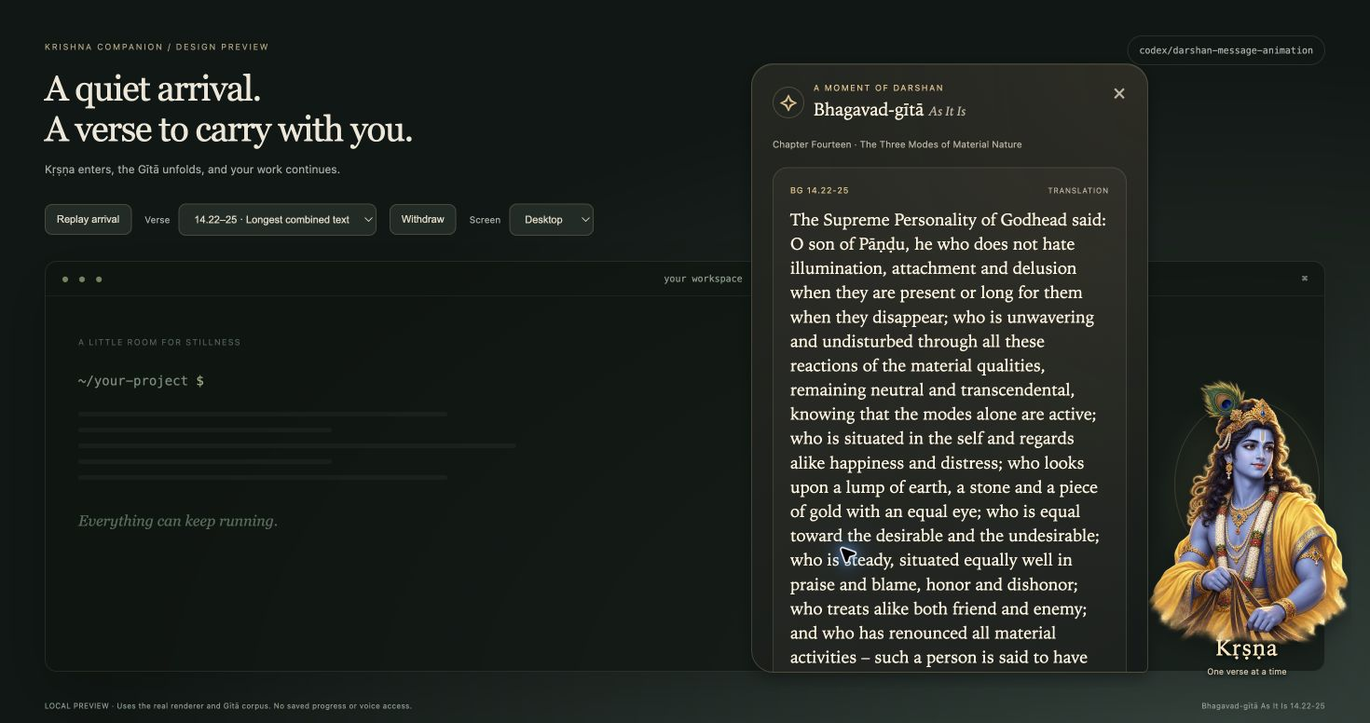
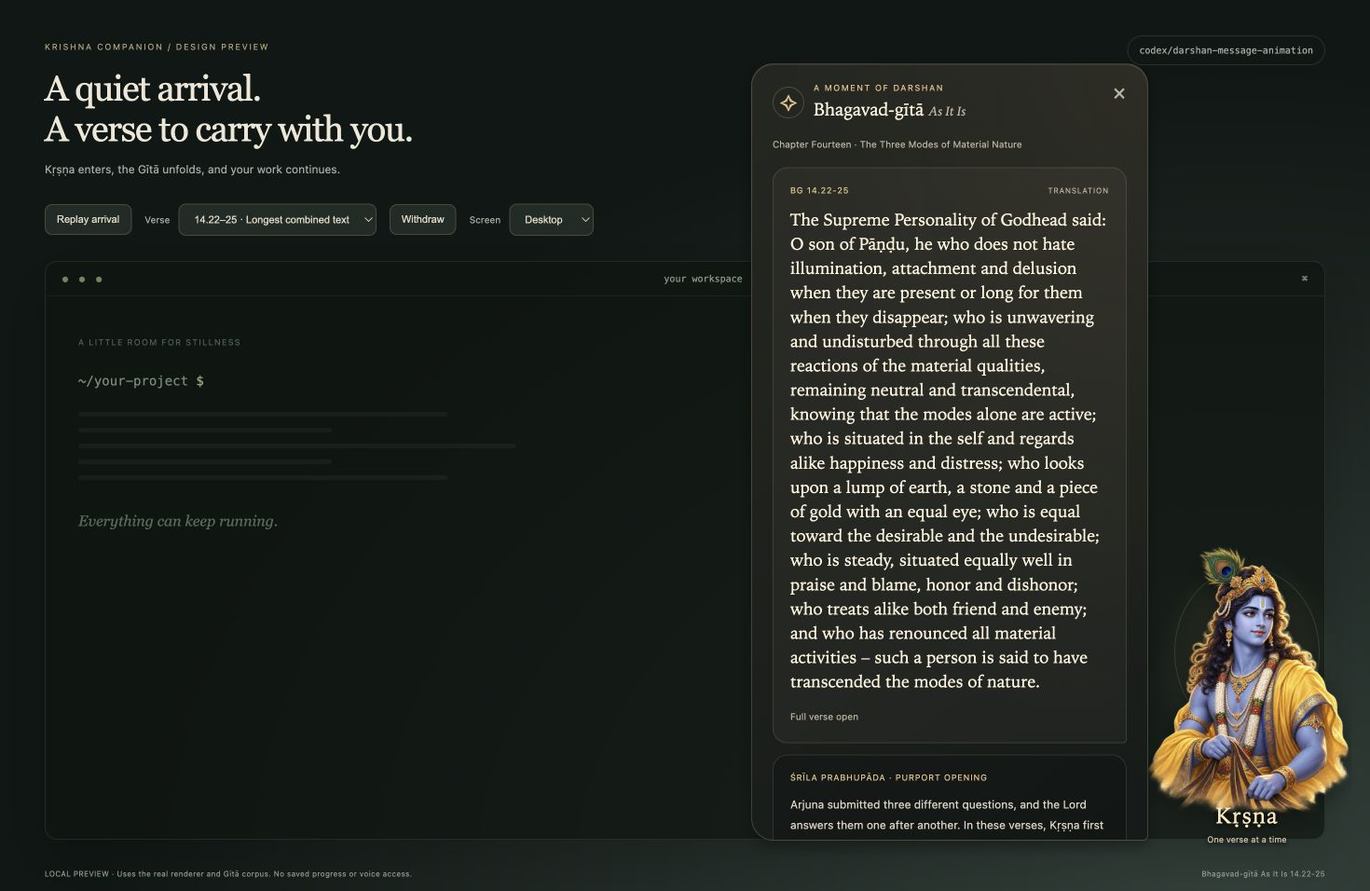
Add single-image darshan micro-motion

diff --git a/src/styles.css b/src/styles.css
@@ -62,6 +62,7 @@ body:not(.expanded) .translation { display: -webkit-box; -webkit-line-clamp: 3; 
 .presence-caption small { display: block; margin-top: 4px; color: #d3c3a7; font-size: 9px; }
 .threshold { position: absolute; right: 0; bottom: 0; width: 220px; height: 2px; background: linear-gradient(90deg, transparent, #edcb8caa, transparent); opacity: 0; transform: scaleX(.2); }
 body[data-phase="arriving"] .presence { animation: arrive .95s var(--ease) both; }
+body[data-phase="arriving"] .figure img, body[data-phase="present"] .figure img { animation: breathe 4s ease-in-out infinite; transform-origin: 50% 78%; }
 body[data-phase="arriving"] .threshold { animation: threshold 1.1s ease both; }
 body[data-phase="arriving"] .card { opacity: 1; transform: none; transition-delay: .5s; pointer-events: auto; }
 body[data-phase="arriving"] .typing { visibility: visible; }
@@ -80,6 +81,7 @@ body[data-phase="withdrawing"] .card { transition-duration: .25s; opacity: 0; tr
 body[data-phase="absent"] .figure, body[data-phase="withdrawing"] .figure { pointer-events: none; }
 @keyframes arrive { 0% { opacity: 0; transform: translateX(240px); } 18% { opacity: 1; } 100% { opacity: 1; transform: none; } }
 @keyframes withdraw { 0%, 18% { opacity: 1; transform: none; } 100% { opacity: 0; transform: translateX(240px); } }
+@keyframes breathe { 0%, 100% { transform: scale(1); } 50% { transform: scale(1.012); } }
 @keyframes threshold { 20% { opacity: .8; transform: scaleX(1); } 100% { opacity: 0; transform: scaleX(1); } }
 @keyframes message-arrive { from { opacity: 0; transform: translateY(8px); } to { opacity: 1; transform: none; } }
 @keyframes dot { 50% { opacity: .3; transform: translateY(-3px); } }
@@ -93,4 +95,5 @@ body[data-phase="absent"] .figure, body[data-phase="withdrawing"] .figure { poin
 }
 @media (prefers-reduced-motion: reduce) {
   *, *::before, *::after { animation-duration: .01ms !important; animation-delay: 0s !important; animation-iteration-count: 1 !important; transition-duration: .01ms !important; transition-delay: 0s !important; }
+  body[data-phase="arriving"] .figure img, body[data-phase="present"] .figure img { animation: none; transform: scale(1); }
 }

diff --git a/test/micro-motion.test.js b/test/micro-motion.test.js
@@ -1,0 +1,30 @@
+const test = require("node:test");
+const assert = require("node:assert/strict");
+const fs = require("node:fs");
+const path = require("node:path");
+const { ARRIVAL_MS, WITHDRAWAL_MS } = require("../src/darshan");
+
+const index = fs.readFileSync(path.join(__dirname, "../src/index.html"), "utf8");
+const styles = fs.readFileSync(path.join(__dirname, "../src/styles.css"), "utf8");
+
+test("the shipped figure is one original image with no articulated runtime", () => {
+  assert.equal((index.match(/<img\b/g) || []).length, 1);
+  assert.match(index, /<img src="\.\.\/assets\/krishna\.png"/);
+  assert.doesNotMatch(index, /<canvas\b|character-motion|character\.js|character-style/);
+});
+
+test("arrival, breathing and withdrawal use bounded single-image transforms", () => {
+  assert.equal(ARRIVAL_MS, 1_100);
+  assert.equal(WITHDRAWAL_MS, 900);
+  assert.match(styles, /\[data-phase="arriving"\] \.presence \{ animation: arrive \.95s/);
+  assert.match(styles, /\[data-phase="withdrawing"\] \.presence \{ animation: withdraw \.85s/);
+  assert.match(styles, /animation: breathe 4s ease-in-out infinite/);
+  assert.match(styles, /@keyframes breathe \{ 0%, 100% \{ transform: scale\(1\); \} 50% \{ transform: scale\(1\.012\); \} \}/);
+});
+
+test("absence and reduced motion have no breathing loop", () => {
+  const breathingRule = styles.match(/body\[data-phase="arriving"\][^\n]+animation: breathe[^\n]+/)[0];
+  assert.doesNotMatch(breathingRule, /data-phase="absent"|data-phase="withdrawing"/);
+  assert.match(styles, /prefers-reduced-motion: reduce[\s\S]+animation: none; transform: scale\(1\);/);
+  assert.doesNotMatch(styles, /requestAnimationFrame|setInterval/);
+});

diff --git a/docs/DARSHAN-HANDOFF.md b/docs/DARSHAN-HANDOFF.md
@@ -1,165 +1,89 @@
-# Darshan animation redesign — Fable handoff
+# Darshan glide and micro-motion — Fable handoff
 
-Branch: `codex/darshan-message-animation`. Local worktree: `../krishna-companion-darshan`.
-Requested by Deep on 2026-09-08 while Fable was unavailable. Fable remains the
-orchestrator; this document is a prepared handoff, not a sent notification.
-No issue, pull request, deployment, installation, or merge was requested or made.
+Branch: `codex/darshan-message-animation`. Owner decision recorded 2026-09-09.
+This branch is an M1 UI slice, not a claim that every M1 native acceptance check
+has passed. It is based on the `fdae25b` darshan flow over merged B2 `8731b8b`.
 
-The starting checkout was B2 (`38e401b`). B2 was subsequently squash-merged into
-`main` as `8731b8b`; those two trees are identical. The redesign is rebased onto
-that merged baseline so its review diff contains only this work.
+## Owner decision: articulated rig parked
 
-## Experience
+The AI-generated cut-out puppet did not produce a natural gait or dependable
+expressions. Rotating painted parts distorted anatomy, clothing, hands, and the
+face, and there was no animator-authored keyframed gait. M1 therefore ships only
+the original `assets/krishna.png` artwork as one image layer.
 
-Latest revision, 2026-09-09: Deep rejected the previous cutout motion as distorted.
-The description and screenshots below are historical, not visual approval.
-The correction uses continuous feathered limb surfaces, restrained angles,
-0.8 s pose transitions and a front-facing head. Removed the body-flattening turn,
-forearm swaps and whole-head blink swaps. Frame inspection and 0.25× playback
-are now available in the local preview. See `CHARACTER-MOVEMENT.md` for current
-behavior and remaining acceptance. **Not release-ready:** natural side turns
-remain incomplete because generated frames changed crown orientation/identity.
-Only the front-facing frame is used. No merge or release is authorized.
+The rig history remains available under `assets/candidates/rig/` and
+`experiments/articulated-rig/`. Its code, tests, model notes, prompts, generated
+atlases, and screenshots are reference material for a future human animator.
+Neither directory is included in the npm package or active test suite.
 
-Hand/face follow-up: corrected swapped relaxed lower-arm assignments, kept wrists
-and fingers rigid beyond elbow bends, and added local smile/blink patches in all
-three styles without swapping the base head. Desktop preview includes enlarged
-live face/hand details. See `CHARACTER-EXPRESSIONS.md`; UI5 still awaits Deep's
-visual acceptance. Side turns remain incomplete.
+## Shipped experience
 
-Latest test run: 116 tests, 115 passed, 0 failed, 1 optional helper skipped.
-New runtime tests exercise loop cancellation and positive scaling; geometry tests
-sample every 8 ms and enforce angle/continuity bounds. These are regression
-checks, not a claim that the movement has received visual or devotional approval.
-
-Deep superseded the original glide-only design on 2026-09-08/09. Kṛṣṇa now uses
-a full-body painted skeletal rig: articulated hips/knees, shoulders/elbows,
-head tilt, blink and cloth movement. Arrival takes 3.2 s before the verse appears.
-Finite teaching and explanation gestures settle into restrained breathing.
-Painterly, realistic and pixel-art atlases share the same choreography. The
-painterly blue/gold palette follows Deep's supplied visual reference. Full-length
-dhoti covers knees and calves; a shawl and overlapping fuller arms hide joins.
-See `CHARACTER-MOVEMENT.md` for the movement vocabulary and event combinations.
-
-The first message previews at most three lines with an explicit “Read full verse
-& purport” action. Tap the translation or press Enter after engaging the card to
-show the complete translation and a separately attributed purport message.
-Long readings grow to the display limit and scroll. Text is never rewritten.
-Entries without a purport show only the translation.
-
-“Next verse” keeps Kṛṣṇa present and reveals the next corpus entry as a new
-message. The renderer acknowledges readiness before another advance is allowed,
-including reduced-motion mode; repeated clicks cannot skip multiple entries.
-Scheduled and external `now` calls still cannot replace an open teaching.
-Explicit verse previews hide Next and never change the journey.
-
-End darshan (× or Escape) fades the message, raises a farewell palm, turns and
-walks Kṛṣṇa out. The native window hides after 3.2 s. Untouched readings withdraw three minutes after arrival;
-opening the full verse cancels the timeout, including a supplied `--duration`.
-Next starts a fresh timeout. Old timers are cancelled on window recreation.
-New users see 1.1 on first launch; returning users wait for cadence or invitation.
+- The native companion window is hidden between darshans.
+- A single figure glides horizontally in from the right in 0.95 seconds; the
+  three-line translation bubble reveals after 1.1 seconds.
+- While arriving or present, the image breathes on a 4-second ease-in-out scale
+  from 1.000 to 1.012 and back. There is no JavaScript animation loop.
+- Tap the translation or press Enter after engaging the card to expand the full
+  translation and purport opening. Verbatim corpus strings are never rewritten.
+- Next verse advances exactly one corpus entry and keeps the figure present.
+- An untouched verse withdraws after 180 seconds following arrival. Expansion
+  cancels that timeout; Next starts a new timeout.
+- Withdrawal glides right in 0.85 seconds; the native window hides at 0.9 seconds.
+- Reduced motion uses a fixed scale of 1.000 with no breathing loop.
 
 ## Integration boundaries
 
-- `src/darshan.js`: testable encounter timers; callbacks own withdrawal and hiding.
-- `src/main.js`: hidden resting window, larger reading bounds, first-run arrival,
-  explicit next-verse persistence, focus gating, readiness and timer wiring.
-- `src/preload.js`: three narrow new messages: expand, next, ready.
-- `src/index.html`, `src/renderer.js`, `src/styles.css`: staged messages and motion.
-- `scripts/preview-darshan.js`: loopback-only browser review harness using the actual
-  renderer and corpus, with an in-memory IPC bridge. No Electron or state writes.
+- `src/darshan.js` owns the 1.1-second arrival, 180-second untouched, and
+  0.9-second withdrawal timers without importing Electron.
+- `src/main.js` owns saved placement, hidden-window lifecycle, focus gating,
+  readiness, progression, and native hiding.
+- `src/index.html`, `src/renderer.js`, and `src/styles.css` own the staged card,
+  single-image glide, and CSS-only breathing motion.
+- `scripts/preview-darshan.js` is a loopback-only browser harness around the real
+  renderer and corpus. It has no Electron, permissions, or persistence access.
 
-The existing `restingPosition` schema is preserved. Native vibrancy is disabled
-because it fills the transparent arrival stage; the card paints its own surface.
-Listening feedback moves to the tray tooltip; the idle window stays hidden.
-No dependency, Electron version, corpus, licensing, shell hook, or voice
-recognition implementation changes were made. Original artwork is preserved;
-three new generated atlases are added. The renderer caches their keyed pixels
-once, remembers the style locally and cancels its loop while hidden or absent.
-Reduced motion draws a single settled pose without a continuous loop.
+The existing `restingPosition` schema is unchanged. Opening still uses
+`showInactive()` and becomes focusable only after an explicit pointer engagement.
+The renderer CSP retains `connect-src 'none'`; source links remain main-process
+allowlisted against the corpus before `openExternal`.
 
 ## Evidence
 
-After `npm ci --ignore-scripts --offline --no-audit --no-fund`, local macOS,
-Node 24.13.0:
+Local macOS, Node 24.13.0:
 
 ```text
-ℹ tests 107
-ℹ pass 106
+ℹ tests 103
+ℹ pass 102
 ℹ fail 0
 ℹ skipped 1
-ℹ duration_ms 8653.281042
 ```
 
-The skipped test requires the optional compiled voice helper, absent in this
-worktree. New tests never import Electron or request OS permissions. Main-process
-tests evaluate the shipped wiring against in-memory Electron doubles and fake
-timers. Renderer tests exercise every one of the 657 corpus entries, tap/Enter,
-Escape during arrival, missing purports, source attribution, and reduced motion.
-Journey tests include grouped verses, final-verse wrap, preview isolation,
-double-click protection, timeout cancellation and window recreation.
+The skipped check is the optional prebuilt voice helper. Tests never launched
+Electron or requested a macOS permission. `npm pack --dry-run --json` contains no
+rig candidates, experiments, preview tooling, or compiled helper.
 
-`node --check` and `git diff --check` pass. `npm pack --dry-run --json` excludes
-the compiled helper and artwork candidates. No new network calls exist under
-`src/` or `bin/`; the CSP retains `connect-src 'none'` and the source URL allowlist
-remains in the main process.
+Renderer-only browser review used `http://127.0.0.1:4173` at 1470×956. The tallest
+entry, 14.22-25, rendered as exactly three lines in stage one. In stage two the
+660×866 iframe and 832px card remained within the viewport; its 1053px content
+scrolls inside the card. Computed image motion reported one source image,
+`breathe`, `4s`, `ease-in-out`, and a sampled scale of 1.00975. After withdrawal,
+the card and presence had zero opacity and the image animation was `none`.
 
-Browser review uses the real renderer in a simulated desktop, not a native
-Electron screenshot. Checked staged expansion, Next with Enter, translation-only
-entries, long readings and withdrawal. Evidence:
-
-- [Translation message](evidence/darshan-translation.png)
-- [Purport message](evidence/darshan-purport.png)
-- [Long reading](evidence/darshan-long-expanded.png)
+- [Tallest three-line translation](evidence/darshan-translation.png)
+- [Tallest expanded reading](evidence/darshan-long-expanded.png)
 - [After withdrawal](evidence/darshan-withdrawn.png)
 
-The earlier glide-only compact 500px renderer had no horizontal overflow (354px message surface,
-354px scroll width). The long reading retained 1053px of scrollable content in a
-652px surface; keyboard navigation reached its bottom controls.
+## Display provenance and remaining acceptance
 
-Run `node scripts/preview-darshan.js` and open `http://127.0.0.1:4173` to replay.
-The harness's source button reports the validated URL without opening another tab.
+Translation, purport opening, chapter, reference, and source URL come exclusively
+from `src/content.js` / `data/gita.json` and are assigned with `textContent`.
+Buttons, headings, status notes, and preview labels are fixed product chrome. No
+new display sink or untrusted-text path was added, and corpus bytes remain untouched.
 
-Articulated revision: browser-checked all three styles with full dhoti and shawl,
-and visible connected forearms in teaching/explanation poses. New screenshot
-evidence is `evidence/character-paint.png`, `evidence/character-realistic.png`,
-and `evidence/character-pixel.png`. These show appearance, not native performance.
-Final artwork generation prompts and local asset paths: `CHARACTER-ART-PROMPTS.md`.
+Native focus return, saved-display placement, first-launch stopwatch, arrival
+performance trace, five-minute CPU sampling, and window-list absence still need
+their documented human checks. Schedule extensions, typing deferral, and the
+fullscreen guard remain outside this UI slice. No native performance or complete
+M1 acceptance claim is made.
 
-Current browser frame evidence: `evidence/face-hands-paint-v2.png`,
-`evidence/face-hands-realistic-v2.png`, `evidence/face-hands-pixel-v2.png`.
-These are inspected static frames, not a native performance recording.
-
-## Display provenance (C3)
-
-The enlarged preview adds only fixed chrome: LIVE FACE, HIS RIGHT, HIS LEFT and
-fixed inspection timestamps. No teaching text changed in the hand/face follow-up.
-
-Translation, purport opening, chapter and verse labels come exclusively from
-`src/content.js` / `data/gita.json` and are assigned using `textContent`. The source
-title and target come from the same entry. Kṛṣṇa's name, message headings, progress
-controls, reading-status labels, preview notice and listening tooltip are fixed
-product chrome. There is no generated dialogue or free-text input. The Gītā's
-original speaker remains in each translation; other speakers are not relabelled
-as Kṛṣṇa.
-
-## Remaining acceptance / inherited issues
-
-This implements the UI slice, not all of M1. Native focus return, dragging across
-displays, actual frame timing, five-minute CPU sampling and first-launch stopwatch
-checks still need manual acceptance. The window is hidden between visits, but
-the proposed <1% CPU target has not been measured. Focused-app display selection,
-typing deferral, fullscreen guard, new cadence presets and daily scheduling remain
-backend work; placement currently uses the saved position / cursor display logic.
-Voice permission proof remains deferred per Deep's existing decision.
-
-An inherited corpus defect is visible in translation-only entries: 32 translations
-contain navigation text matching `TEXT\\s*\\d`, for example 1.5 ends in
-`TEXT 4TEXT 6`. The full stored purports also contain such strings in 620 entries;
-the UI generally uses their opening excerpt. This exists in the unchanged B2
-corpus. Fable should route a fetch/parser correction and source verification before
-release. The redesign deliberately preserves the bytes instead of stripping text
-at display time. Passing corpus-structure tests does not prove source-text fidelity.
-
-Criteria touched: C3, C4, C8, C9, C10, C13, M1.1, M1.5–M1.8 and UI1–UI4.
-M1 acceptance rows remain proposed; no native performance claim is made.
+Criteria touched: C3, C8, C10, M1.5, M1.6, M1.7, M1.8, UI1–UI5.

diff --git a/docs/SUCCESS-CRITERIA.md b/docs/SUCCESS-CRITERIA.md
@@ -34,8 +34,8 @@ Environment for every manual M1 check unless stated: MacBook Air 13-inch, built-
 | M1.3 | Quiet while typing: no darshan starts if any key was pressed in the last 20 seconds. A blocked darshan is deferred, retried every 5 seconds, and dropped after 10 minutes in favour of the next slot. Never dropped silently: the deferral is visible in `krshna context`. | unit tests with fake input timestamps | proposed |
 | M1.4 | Fullscreen guard: no darshan over a fullscreen application. Deferred as in M1.3. | manual on macOS | proposed |
 | M1.5 | Two-stage bubble: stage one shows the translation only, at most 3 lines in the environment above. Tap or Enter expands to the purport opening. The entry with the tallest rendered stage two still fits inside the display. | screenshots of both stages for the tallest entry; unit test that tap and Enter both send the expand message | proposed |
-| M1.6 | Articulated arrival and withdrawal occur within the companion window at the saved resting position, each in at most 3.2 seconds. Legs bend under full-length clothing and hands gesture from connected elbows and shoulders. The window is placed on the saved display and does not follow the cursor. During arrival, at most 5 percent of frames exceed 20 ms (Electron performance panel, environment above). | screen recording of one full darshan plus the performance panel capture; `test/darshan.test.js` and `test/character-motion.test.js` for timings and joint changes | proposed |
-| M1.7 | Absent between darshans: no companion window is visible (window list shows none) and the app's average CPU over a 5-minute Activity Monitor sample is under 1 percent. | Activity Monitor and window list | proposed |
+| M1.6 | Single-image arrival and withdrawal occur within the companion window at the saved resting position, each in at most 1.1 seconds. `assets/krishna.png` glides horizontally from and to the right edge without articulated parts. While present, breathing is a 4-second ease-in-out scale from 1.000 to 1.012 and back, with no JavaScript animation loop. The window is placed on the saved display and does not follow the cursor. | `test/micro-motion.test.js` and `test/darshan.test.js` for artwork, CSS and timings; localhost-preview screenshots and computed-style inspection plus native placement check | proposed |
+| M1.7 | Absent between darshans: no companion window is visible (window list shows none), no image animation is selected in the absent phase, and the app's average CPU over a 5-minute Activity Monitor sample is under 1 percent. Reduced motion shows the fixed image without a loop. | `test/micro-motion.test.js`; Activity Monitor and window list | proposed |
 | M1.8 | An untouched darshan withdraws on its own after 3 minutes. A darshan the reader has expanded stays until closed. | unit test on the timeout; manual | proposed |
 | M1.9 | Every `held` criterion in the Always table still passes in CI, and every `manual` one is re-run and ticked in the milestone pull request. | CI plus the manual list above | proposed |
 
@@ -43,7 +43,7 @@ Environment for every manual M1 check unless stated: MacBook Air 13-inch, built-
 
 The `codex/darshan-message-animation` branch implements the M1 UI slice and its
 necessary window/timer wiring, not the entire M1 milestone. M1.1, M1.5–M1.8 have
-implementation and automated/renderer evidence in the branch's tests (`test/darshan.test.js`, `test/darshan-main.test.js`, `test/renderer.test.js`).
+implementation and automated/renderer evidence in the branch's tests (`test/darshan.test.js`, `test/darshan-main.test.js`, `test/micro-motion.test.js`, `test/renderer.test.js`).
 The M1 rows remain proposed until their native acceptance checks pass. In
 particular, the performance trace (M1.6), CPU sampling
 (M1.7), schedule extensions (M1.2), typing deferral (M1.3), and the fullscreen guard
@@ -51,20 +51,20 @@ particular, the performance trace (M1.6), CPU sampling
 
 | ID | Branch criterion | Check | Status |
 |----|------------------|-------|--------|
-| UI1 | Arrival reveals a message after 3.2 seconds; withdrawal hides the native window after 3.2 seconds. Reduced motion has no loop. No negative/zero body scale, whole-forearm swaps or whole-head blink swaps. Continuous limb bends and 0.8 s action blends use three art styles, facing the reader. Inspect walk and gestures at 0.25× and 1× before visual approval. Side turns remain incomplete. | `test/character-motion.test.js`, `test/character-runtime.test.js`, `test/darshan.test.js`, `test/renderer.test.js`; visual browser review | proposed (user rejected earlier motion; new revision awaits approval) |
+| UI1 | One `assets/krishna.png` figure glides from the right in 0.95 seconds; the message reveals at 1.1 seconds; withdrawal glides right in 0.85 seconds and the native window hides at 0.9 seconds. The present figure breathes on a 4-second ease-in-out scale from 1.000 to 1.012 and back. Reduced motion is fixed, and absence has no animation selector or JavaScript loop. | `test/micro-motion.test.js`, `test/darshan.test.js`, `test/renderer.test.js`; visual browser review | proposed pending native placement and CPU acceptance |
 | UI2 | One explicit Next verse action advances exactly one corpus entry, including grouped verses and wrapping 18.78 to 1.1. A specific verse preview never advances or saves progress. | `test/darshan-main.test.js` with Electron doubles | held |
 | UI3 | Every one of the 657 entries reaches the message renderer verbatim. Empty purports create no message. Tap and Enter expand; Escape during arrival cancels the pending reveal. | `test/renderer.test.js` | held |
 | UI4 | Untouched timeout is 180 seconds after arrival. Expanding cancels it, Next replaces it, double dismissal withdraws once, and window recreation cancels old timers. | `test/darshan.test.js`, `test/darshan-main.test.js` | held |
 
-### UI5 · hands and expressions (proposed)
+### UI5 · hands and expressions (parked)
 
-Hand sources stay on their anatomical sides in every action; wrist/finger geometry
-is rigid beyond the elbow bend. Smile/blink affect only local facial features.
-Blinks last 330ms per 5.3s and do not restart on action changes. Reduced motion
-keeps open eyes, a fixed smile and no loop. Regression checks are in
-`test/character-motion.test.js` and `test/character-runtime.test.js`. Inspect the
-enlarged face/hands at 1800ms and 2420ms in each style before visual approval.
-Status: proposed, awaiting Deep's visual acceptance.
+Owner decision, 2026-09-09: the generated cut-out puppet cannot produce a natural
+gait or reliable expressions without distorting painted anatomy and clothing.
+Hands, face patches, articulated joints, multiple styles, and their tests are not
+part of M1. The preserved source material lives under `experiments/articulated-rig/`
+and `assets/candidates/rig/` for a human animator who can author a unified model
+sheet, clean separations, fixed pivots, keyframed gait, cloth overlap, gestures,
+expressions, and transitions. Status: parked; no visual acceptance is claimed.
 
 ## How to use this file
 

diff --git a/README.md b/README.md
@@ -4,7 +4,7 @@ A quiet companion that visits during long terminal sessions. Start it once with 
 
 The first message previews up to three lines of the translation. Click it or “Read full verse & purport” to open the complete translation and a second message containing Śrīla Prabhupāda's purport opening. “Next verse” continues the saved sequence while Kṛṣṇa stays present. The × button or Escape ends the darshan with a gentle withdrawal. An untouched verse withdraws after three minutes; an expanded verse stays until you close it or choose the next verse. Long readings grow to the available display height, then scroll without discarding any text.
 
-Between darshans the companion window is hidden. The original single-image Kṛṣṇa figure glides in from the right, stays quietly present with the verse, and withdraws the same way. The generated articulated-rig experiment is parked as reference material for a future human animator. Reduced-motion preferences shorten the visual transition. Drag Kṛṣṇa to place the darshan; the saved position survives restarts. Opening a darshan does not take keyboard focus, suspend your terminal, or stop a running process.
+Between darshans the companion window is hidden. The original single-image Kṛṣṇa figure glides in from the right, stays quietly present with a four-second breathing scale, and withdraws the same way. The generated articulated-rig experiment is parked as reference material for a future human animator. Reduced-motion preferences show the fixed image without a loop. Drag Kṛṣṇa to place the darshan; the saved position survives restarts. Opening a darshan does not take keyboard focus, suspend your terminal, or stop a running process.
 
 The journey begins at Chapter 1, text 1 and moves through all 700 verses in order (verses that Śrīla Prabhupāda translated together, such as 1.16-18, appear together). Progress is saved locally, so restarting the companion continues with the next teaching instead of choosing a random quote.
 
